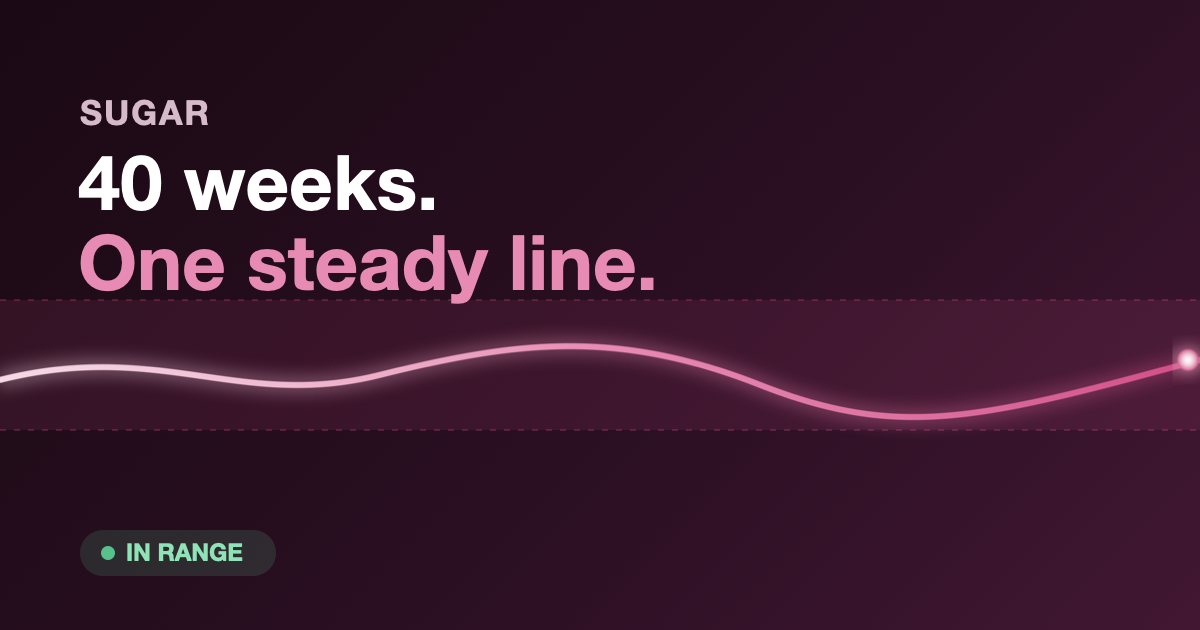
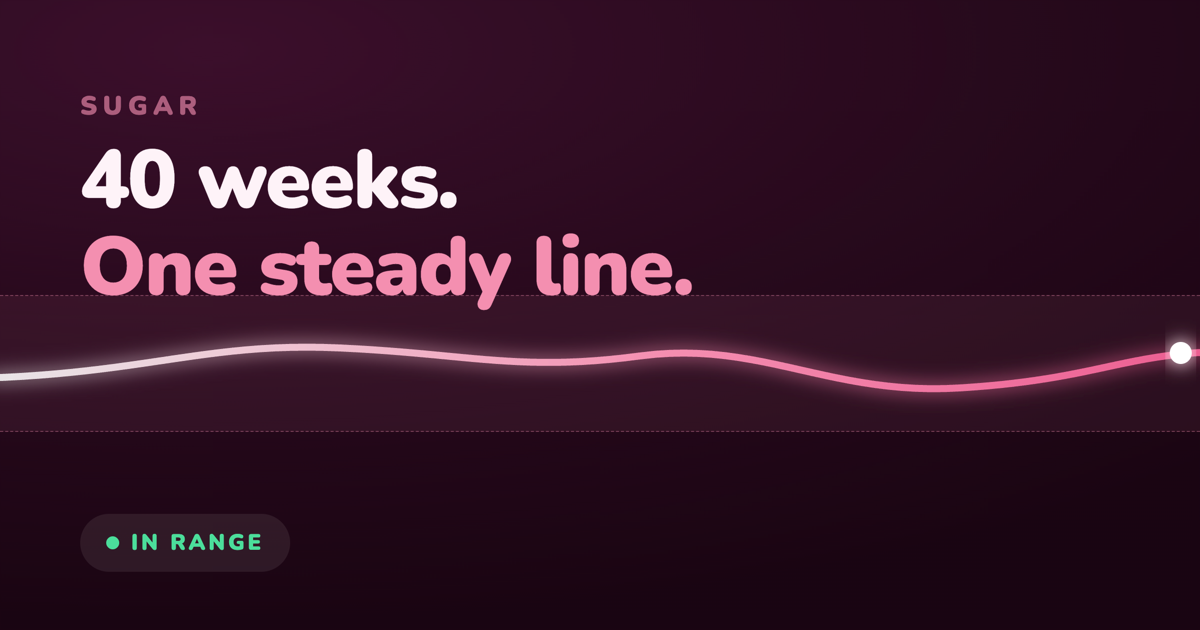
chore: sinh lại docs/og.png bằng Nunito
Bản cũ render qua qlmanage nên chữ rơi vào font hệ thống macOS. Thêm
docs/build-og.js nhúng Nunito từ node_modules dưới dạng data-URI để lần sau tái
tạo được, và chụp lại ảnh 1200×630 sRGB.

diff --git a/docs/build-og.js b/docs/build-og.js
@@ -1,0 +1,85 @@
+#!/usr/bin/env node
+/**
+ * Sinh nguồn HTML cho ảnh OG của landing page (docs/og.png, 1200×630).
+ *
+ *   node docs/build-og.js
+ *   # rồi chụp bằng harness trình duyệt (xem cuối file này)
+ *
+ * Bản đầu (Session 22) render từ SVG qua `qlmanage`, nên chữ rơi vào font hệ thống
+ * macOS (Helvetica Neue) — lệch brand. Bản này nhúng thẳng Nunito từ node_modules
+ * dưới dạng data-URI nên chữ khớp app, và không phụ thuộc font cài trên máy.
+ *
+ * Bảng màu Rose lấy từ `roseScheme` trong src/ui/theme/colors.ts.
+ */
+const fs = require('fs');
+const path = require('path');
+
+const REPO = path.resolve(__dirname, '..');
+const TMP = path.join(REPO, 'docs/.tmp');
+fs.mkdirSync(TMP, { recursive: true });
+
+const fontDir = path.join(REPO, 'node_modules/@expo-google-fonts/nunito');
+const font = (weight, name) =>
+  `@font-face{font-family:'Nunito';font-weight:${weight};font-style:normal;src:url(data:font/ttf;base64,${fs
+    .readFileSync(path.join(fontDir, `${name}/Nunito_${name}.ttf`))
+    .toString('base64')}) format('truetype')}`;
+
+const html = `<meta charset="utf-8"><title>Sugar — OG image</title><style>
+${font(800, '800ExtraBold')}
+${font(900, '900Black')}
+html,body{margin:0;padding:0;background:#fff}
+#og{width:1200px;height:630px;position:relative;overflow:hidden;box-sizing:border-box;
+  font-family:'Nunito',sans-serif;
+  background:radial-gradient(120% 90% at 18% 8%, #3B0F2B 0%, #2A0A1E 45%, #1A0512 100%)}
+/* dải ngưỡng mục tiêu */
+.band{position:absolute;left:0;right:0;top:295px;height:135px;background:rgba(244,143,177,.07);
+  border-top:1px dashed rgba(244,143,177,.35);border-bottom:1px dashed rgba(244,143,177,.35)}
+.copy{position:absolute;left:80px;top:88px}
+.kicker{font-weight:900;font-size:26px;letter-spacing:.22em;color:rgba(244,143,177,.62)}
+h1{margin:14px 0 0;font-weight:900;font-size:82px;line-height:1.06;letter-spacing:-.02em;color:#FDF3F8}
+h1 .rose{color:#F48FB1}
+svg{position:absolute;inset:0}
+.pill{position:absolute;left:80px;bottom:58px;display:flex;align-items:center;gap:12px;
+  background:rgba(255,255,255,.08);border-radius:999px;padding:14px 26px}
+.dot{width:13px;height:13px;border-radius:50%;background:#4ADE9B}
+.pill span{font-weight:900;font-size:22px;letter-spacing:.14em;color:#4ADE9B}
+</style>
+<div id="og">
+  <div class="band"></div>
+  <svg width="1200" height="630" viewBox="0 0 1200 630" fill="none">
+    <defs>
+      <linearGradient id="line" x1="0" y1="0" x2="1200" y2="0" gradientUnits="userSpaceOnUse">
+        <stop offset="0" stop-color="#FFFFFF" stop-opacity=".85"/>
+        <stop offset=".55" stop-color="#F48FB1"/>
+        <stop offset="1" stop-color="#EC5F92"/>
+      </linearGradient>
+      <filter id="glow" x="-20%" y="-200%" width="140%" height="500%">
+        <feGaussianBlur stdDeviation="9" result="b"/>
+        <feMerge><feMergeNode in="b"/><feMergeNode in="SourceGraphic"/></feMerge>
+      </filter>
+    </defs>
+    <path d="M-10 378 C 150 372, 210 342, 340 348 S 520 372, 640 356 S 830 396, 960 388 S 1120 356, 1210 352"
+      stroke="url(#line)" stroke-width="7" stroke-linecap="round" filter="url(#glow)"/>
+    <circle cx="1181" cy="353" r="11" fill="#FFFFFF" filter="url(#glow)"/>
+  </svg>
+  <div class="copy">
+    <div class="kicker">SUGAR</div>
+    <h1>40 weeks.<br><span class="rose">One steady line.</span></h1>
+  </div>
+  <div class="pill"><i class="dot"></i><span>IN RANGE</span></div>
+</div>`;
+
+fs.writeFileSync(path.join(TMP, 'og.html'), html);
+console.log('docs/.tmp/og.html — chụp bằng:');
+console.log(`
+  .claude-tools/browser/run.sh launch
+  .claude-tools/browser/run.sh exec "
+    await page.goto('file://\\$PWD/docs/.tmp/og.html');
+    await page.evaluate(() => document.fonts.ready);
+    await page.waitForTimeout(800);
+    await page.locator('#og').screenshot({path:'docs/.tmp/og-2x.png'});
+  "
+  # Chrome chụp DPR 2 và ghi theo profile màn hình (P3) → hạ về 1200×630 VÀ ép sRGB:
+  sips -z 630 1200 --matchTo "/System/Library/ColorSync/Profiles/sRGB Profile.icc" \\
+    docs/.tmp/og-2x.png --out docs/og.png
+`);
